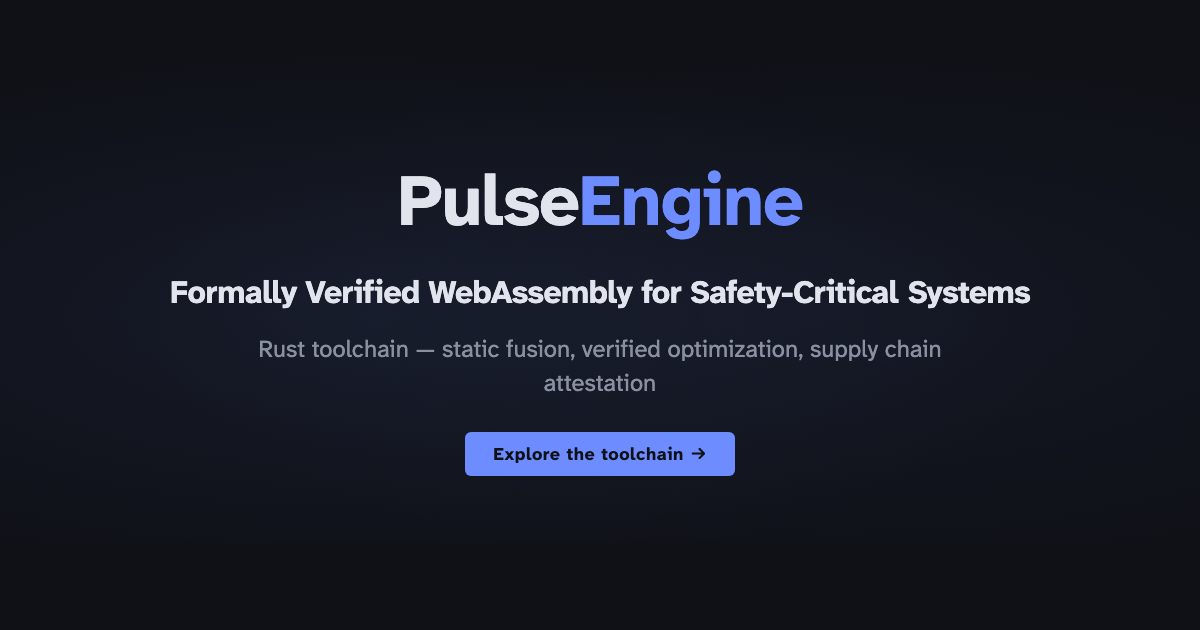
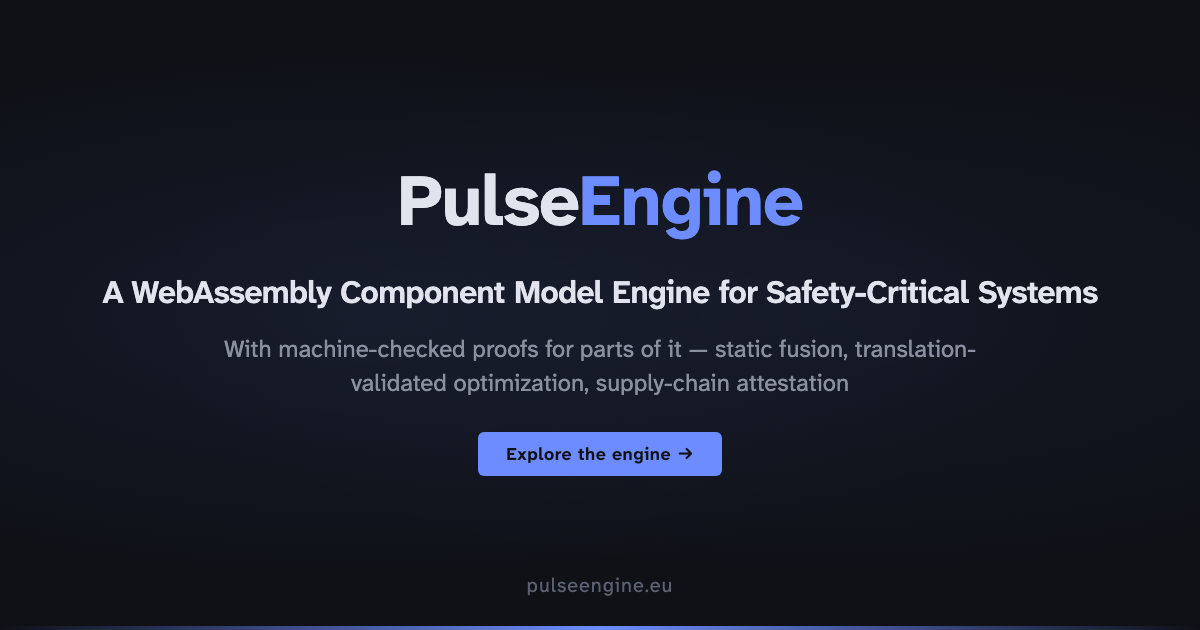
fix(site): re-render og-image.png from the corrected generator (#271)
The social card still showed the old "Formally Verified" headline; the
generator page was fixed in #267 but the PNG was never re-rendered.

- scripts/render-og-image.sh renders static/og-image-generator.html to
  static/og-image.png at 1200x630 with headless Chrome, waiting for the
  web font (--virtual-time-budget) and checking the output size.
- Generator requests the 600 weight it uses for the headline.
- claims.yaml: the generator must carry config.toml's description as
  its headline.
- CONTRIBUTING.md: how to regenerate the card.

Claude-Session: https://claude.ai/code/session_01G5qpB7zvxLvdrvn5YRyj4R

diff --git a/static/og-image-generator.html b/static/og-image-generator.html
@@ -89,7 +89,7 @@
   </style>
   <link rel="preconnect" href="https://fonts.googleapis.com">
   <link rel="preconnect" href="https://fonts.gstatic.com" crossorigin>
-  <link href="https://fonts.googleapis.com/css2?family=Atkinson+Hyperlegible+Next:wght@400;700&display=swap" rel="stylesheet">
+  <link href="https://fonts.googleapis.com/css2?family=Atkinson+Hyperlegible+Next:wght@400;600;700&display=swap" rel="stylesheet">
 </head>
 <body>
   <div class="content">

diff --git a/CONTRIBUTING.md b/CONTRIBUTING.md
@@ -310,6 +310,13 @@ Access caveats first, then `[^key]: ...` definitions with a tier on each.
 - **Sans:** Atkinson Hyperlegible Next (Google Fonts)
 - **Mono:** Atkinson Hyperlegible Mono (Google Fonts)
 
+### Social card
+
+`static/og-image.png` (1200×630, used for `og:image` / `twitter:image`) is rendered
+from `static/og-image-generator.html`. After editing the generator, regenerate it with
+`scripts/render-og-image.sh` (needs Google Chrome or Chromium, and network access for
+the web font), then commit both files.
+
 ## Git workflow
 
 ### Branch protection
